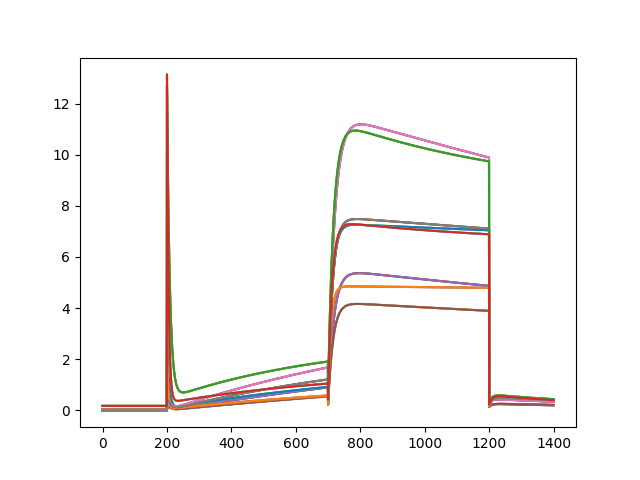
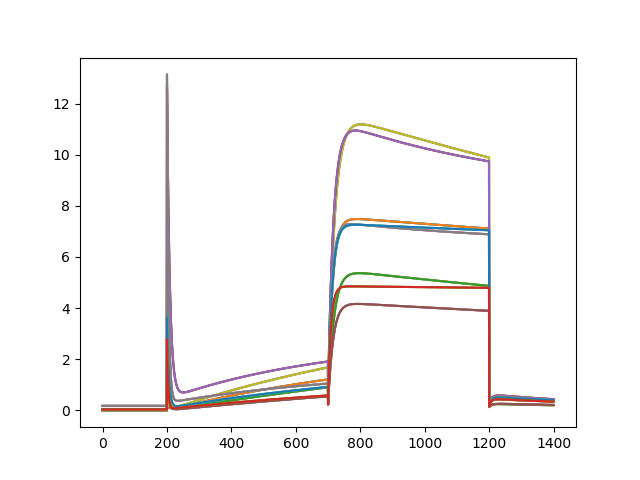
Debug; continue from previous simulation

Changed region(s): [[0.1562, 0.1875, 0.7812, 0.875], [0.5312, 0.25, 0.7812, 0.3438], [0.75, 0.8125, 0.875, 0.8438]]

diff --git a/lib/score_sobol.py b/lib/score_sobol.py
@@ -45,6 +45,7 @@ class MaxSobolScore(pints.ErrorMeasure):
         self._n_parameters = len(self.parameters)
 
         self.set_init_state(None)
+        self.set_continue_simulate(False)
         
         self._parameter_samples = saltelli.sample(problem, n,
                 calc_second_order=False)
@@ -56,7 +57,7 @@ class MaxSobolScore(pints.ErrorMeasure):
 
             if np.sum(passed) < len(self._parameter_samples):
                 target_parameter_samples = len(self._parameter_samples)
-                ratio = target_parameter_samples / np.sum(passed)
+                ratio = target_parameter_samples / np.float(np.sum(passed))
                 print('Resampling with %.2f times more samples.' % ratio)
                 self._parameter_samples = saltelli.sample(problem,
                         int(ratio * n), calc_second_order=False)
@@ -97,6 +98,9 @@ class MaxSobolScore(pints.ErrorMeasure):
     def set_init_state(self, v=None):
         self._set_init_state = v
 
+    def set_continue_simulate(self, v=False):
+        self._continue_simulate = v
+
     def __call__(self, param, get_state=False, debug=False):
 
         # Time for simulation
@@ -112,6 +116,7 @@ class MaxSobolScore(pints.ErrorMeasure):
         for i, p in enumerate(self._parameter_samples):
             if self._set_init_state is not None:
                 self._model.set_init_state(self._set_init_state[i])
+                self._model.set_continue_simulate(self._continue_simulate)
             # Only use a scaler measure of the simulation output
             # TODO, check if this is sensible...
             f_sims.append(self._f(self._model.simulate(p, times)))

diff --git a/optimise-sobol/optimise.py b/optimise-sobol/optimise.py
@@ -109,6 +109,7 @@ score = s.MaxSobolScore(model,
         n=n_samples,
         )
 score.set_init_state(None)
+score.set_continue_simulate(False)
 
 x0 = [-80, 200, 20, 500, -40, 500]  # a pharma like protocol
 
@@ -128,9 +129,11 @@ for i_set in range(model.n_parameters()):
     if i_set > 0:
         # Continue from previous simulation
         score.set_init_state(current_states)
+        score.set_continue_simulate(True)
     else:
         # Start from steady state
         score.set_init_state(None)
+        score.set_continue_simulate(False)
 
     # Set a different model parameter to be maximised
     score.set_max_idx(i_set)
@@ -146,7 +149,7 @@ for i_set in range(model.n_parameters()):
             boundaries=boundaries,
             method=pints.XNES)
     opt.set_max_iterations(None)
-    opt.set_parallel(True)
+    opt.set_parallel(8)
 
     # Run optimisation
     try:
